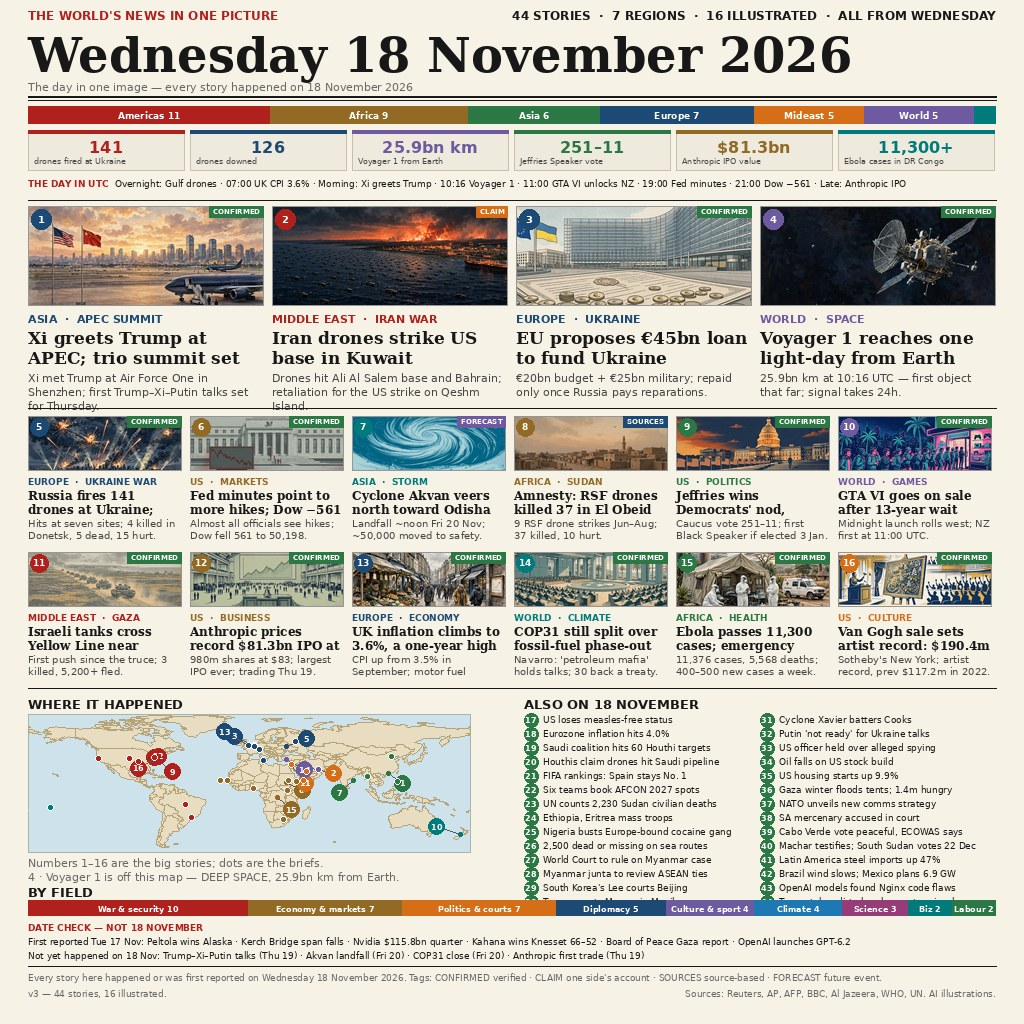
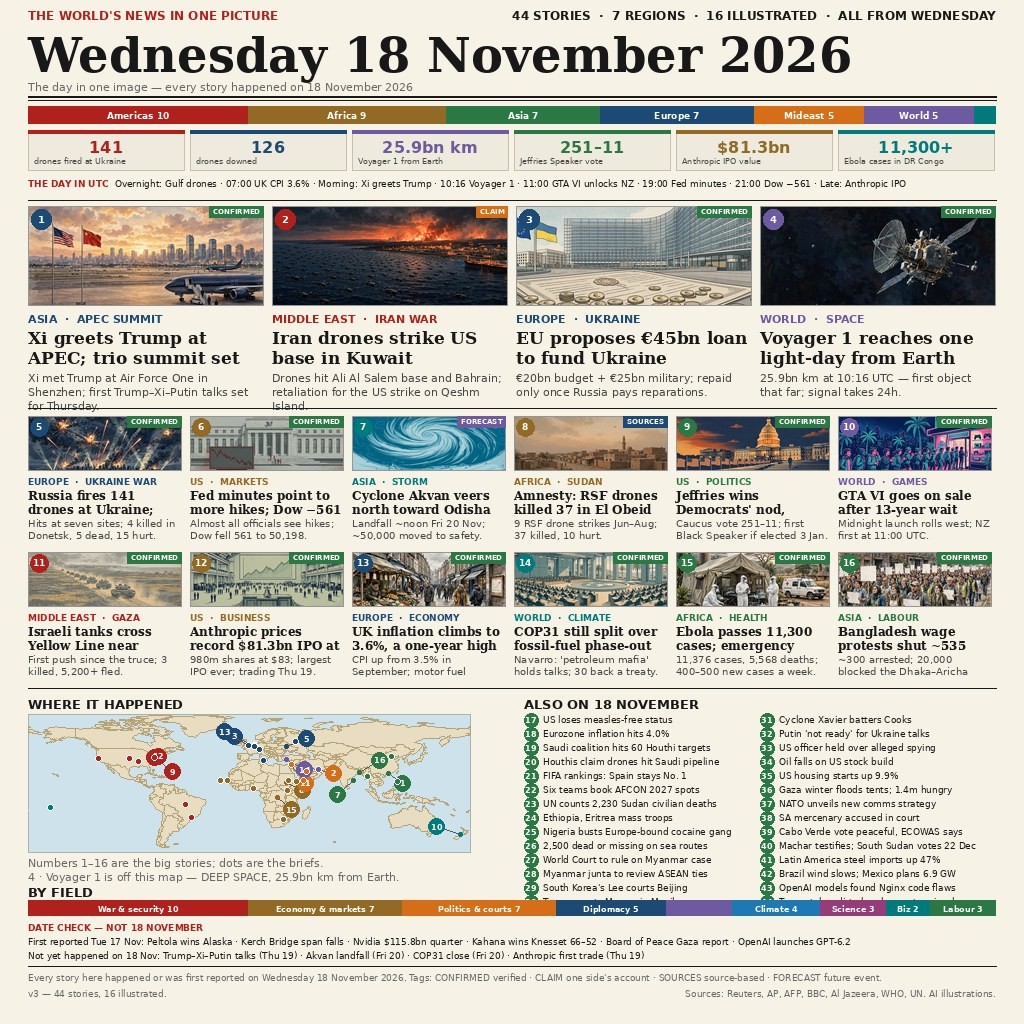
v3 fix: Bangladesh replaces Van Gogh as medium 16 (10/11 top-entry consensus, verified ~535 factories)

diff --git a/build/build_frontpage.py b/build/build_frontpage.py
@@ -162,11 +162,11 @@ hline(28, W - 28, 100, 1)
 
 # ---------------------------------------------------------------- region bar
 # Story counts per region, counted from the 44 stories below:
-# Americas 11, Africa 9, Asia 6, Europe 7, Mideast 5, World 5, Oceania 1.
+# Americas 10, Africa 9, Asia 7, Europe 7, Mideast 5, World 5, Oceania 1.
 REGIONS = [
-    ("Americas", 11, RED),
+    ("Americas", 10, RED),
     ("Africa", 9, BROWN),
-    ("Asia", 6, GREEN),
+    ("Asia", 7, GREEN),
     ("Europe", 7, BLUE),
     ("Mideast", 5, ORANGE),
     ("World", 5, WORLD),
@@ -312,10 +312,10 @@ MEDS = [
          ai="ebola",
          head="Ebola passes 11,300 cases; emergency stays",
          fact="11,376 cases, 5,568 deaths; 400–500 new cases a week."),
-    dict(n=16, kick="US  ·  CULTURE", col=ORANGE, tag="CONFIRMED",
-         ai="van-gogh",
-         head="Van Gogh sale sets artist record: $190.4m",
-         fact="Sotheby's New York; artist record, prev $117.2m in 2022."),
+    dict(n=16, kick="ASIA  ·  LABOUR", col=GREEN, tag="CONFIRMED",
+         ai="bangladesh",
+         head="Bangladesh wage protests shut ~535 factories",
+         fact="~300 arrested; 20,000 blocked the Dhaka–Aricha highway."),
 ]
 
 # AI illustrations for medium stories: filename + vertical focus (0=top, 1=bottom).
@@ -331,6 +331,7 @@ AI_MED = {
     "uk-inflation": ("media-generation-uk-inflation-0-b7724f1a-9818-4d4d-99ef-f49ac6d35848.webp", 0.5),
     "cop31": ("media-generation-media-generation-cop31-v3-0-517c7fc4-6689-4673-ae04-e78e98dcdb7e.webp", 0.5),
     "ebola": ("media-generation-ebola-congo-0-799a6ff4-2c95-407a-9ef4-633d8572dbc5.webp", 0.5),
+    "bangladesh": ("media-generation-bangladesh-garment-0-67c0545f-ea96-43ed-b5c0-cd161c456cfc.webp", 0.5),
     "van-gogh": ("media-generation-media-generation-van-gogh-v3-0-7e2e9581-1efb-4eeb-ba23-39389a463fd7.webp", 0.5),
 }
 
@@ -405,12 +406,12 @@ NUMBERED = [
     (10, 172.6, -41.8, "oceania"), (11, 34.4, 31.4, "mideast"),
     (12, -74.0, 40.7, "americas"), (13, -0.1, 51.5, "europe"),
     (14, 30.7, 36.9, "world"), (15, 23.0, -3.0, "africa"),
-    (16, -74.0, 40.7, "americas"),
+    (16, 90.4, 23.8, "asia"),
 ]
 OFFSETS = {2: (26, 6), 11: (14, 18), 1: (14, 10), 9: (18, 14),
-           3: (-20, -10), 13: (-24, -14), 5: (20, -8), 7: (-14, 12),
+           3: (-20, -10), 13: (-24, -14), 5: (20, -8), 7: (-16, 14),
            8: (16, 8), 10: (-24, -8), 14: (18, 10), 15: (14, 12),
-           16: (-20, 12)}
+           16: (20, -12)}
 for n, lon, lat, reg in NUMBERED:
     x, y = project(lon, lat, MAP)
     dx, dy = OFFSETS.get(n, (0, 0))
@@ -486,18 +487,18 @@ for i, (n, txt) in enumerate(BRIEFS):
 # ---------------------------------------------------------------- BY FIELD bar
 # Field counts, counted from the 44 stories:
 # War & security 10, Economy & markets 7, Politics & courts 7, Diplomacy 5,
-# Culture & sport 4, Climate & disasters 4, Science & health 3,
-# Business & tech 2, Labour & society 2.
+# Culture & sport 3, Climate & disasters 4, Science & health 3,
+# Business & tech 2, Labour & society 3.
 FIELDS = [
     ("War & security", 10, RED),
     ("Economy & markets", 7, BROWN),
     ("Politics & courts", 7, ORANGE),
     ("Diplomacy", 5, BLUE),
-    ("Culture & sport", 4, WORLD),
+    ("Culture & sport", 3, WORLD),
     ("Climate", 4, STEEL),
     ("Science", 3, PLUM),
     ("Biz", 2, TEAL),
-    ("Labour", 2, GREEN),
+    ("Labour", 3, GREEN),
 ]
 assert sum(c for _, c, _ in FIELDS) == 44, "field counts must sum to 44"
 FBAR_X0, FBAR_X1, FBAR_Y, FBAR_H = 28, W - 28, 900, 16
